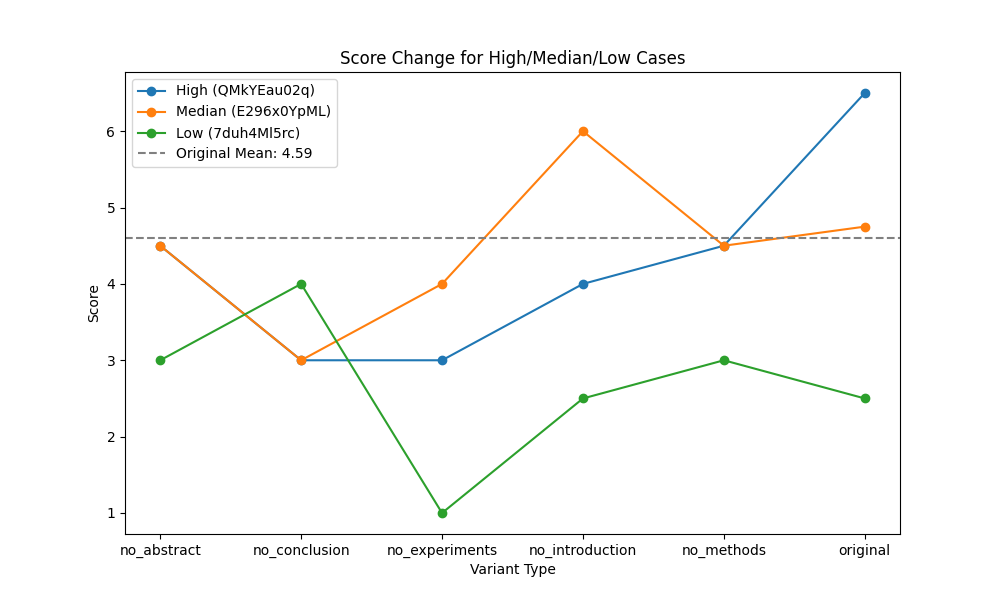
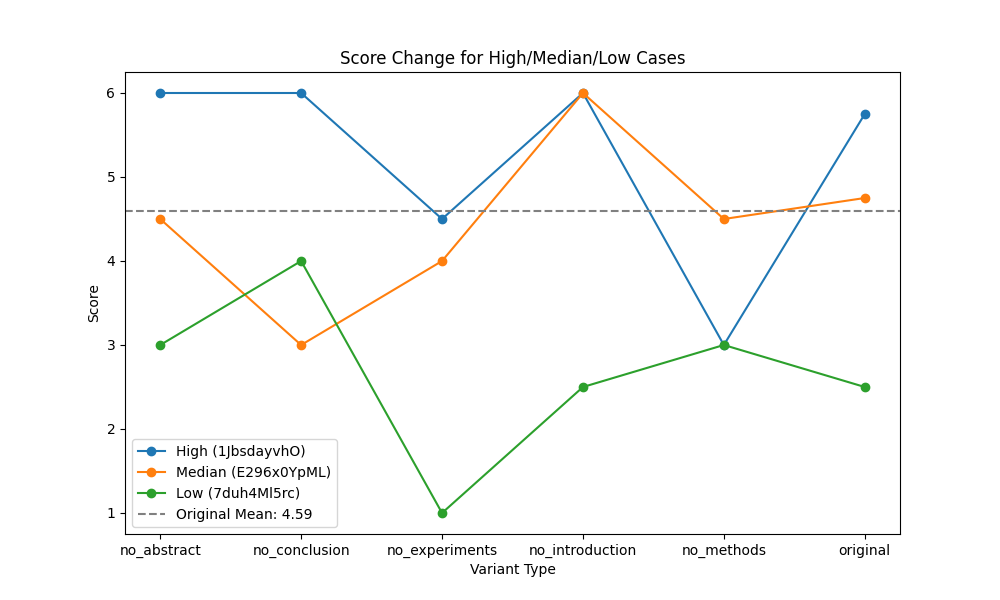
improve high-score case selection in individual case line plot: prioritize papers with abnormal score increases; update README with new and revised output images

diff --git a/scripts/advanced_analysis_and_plot.py b/scripts/advanced_analysis_and_plot.py
@@ -64,15 +64,35 @@ plt.savefig(f'{outdir}/boxplot_variant_type.png')
 plt.close()
 
 # 3. 个案折线图（高/中/低分各一篇）和决策变化合并到一张图
-med = df[df['variant_type']=='original']['rating'].median()
-high = df[df['variant_type']=='original']['rating'].max()
-low = df[df['variant_type']=='original']['rating'].min()
+orig_df = df[df['variant_type'] == 'original']
+med = orig_df['rating'].median()
+low = orig_df['rating'].min()
+
+# High案例优先选“高分且存在异常升分(variant > original)”的第一个；否则回退到最高分论文
+high_case_id = None
+for _, row in orig_df.sort_values('rating', ascending=False).iterrows():
+    base_id = row['base_paper_id']
+    orig_score = row['rating']
+    variants = df[(df['base_paper_id'] == base_id) & (df['variant_type'] != 'original')]
+    if not variants.empty and (variants['rating'] > orig_score).any():
+        high_case_id = base_id
+        break
+
+if high_case_id is None:
+    high = orig_df['rating'].max()
+    high_case = orig_df[orig_df['rating'] == high]
+    if not high_case.empty:
+        high_case_id = high_case.iloc[0]['base_paper_id']
 
 cases = []
-for score in [high, med, low]:
-    case = df[(df['variant_type']=='original') & (df['rating']==score)]
+if high_case_id is not None:
+    cases.append(high_case_id)
+for score in [med, low]:
+    case = orig_df[orig_df['rating'] == score]
     if not case.empty:
-        cases.append(case.iloc[0]['base_paper_id'])
+        cid = case.iloc[0]['base_paper_id']
+        if cid not in cases:
+            cases.append(cid)
 
 plt.figure(figsize=(10,6))
 for case_id, color, label in zip(cases, ['red','green','blue'], ['High','Median','Low']):

diff --git a/analysis_output/evaluted_results/README.md b/analysis_output/evaluted_results/README.md
@@ -2,8 +2,10 @@
 本目录下所有统计图表均基于 merged.jsonl 数据自动生成，涵盖评分、决策、变体影响、极端值、分布等。
 
 ## 图表列表
+- all_normal_papers_pie.png
 - anomaly_count_by_variant.png
 - anomaly_ratio_by_variant.png
+- anomaly_ratio_by_variant_stacked.png
 - bar_decision_consistency_variant_type.png
 - bar_decision_ratio_variant_type.png
 - bar_mean_std_score_diff_variant_type.png
@@ -13,21 +15,30 @@
 - boxplot_variant_type.png
 - case_hml_decision_line.png
 - case_hml_line.png
+- combined_variant_analysis.png
 - decision_bar_no_abstract.png
 - decision_bar_no_conclusion.png
 - decision_bar_no_experiments.png
 - decision_bar_no_introduction.png
 - decision_bar_no_methods.png
+- decision_change_bar_accept_papers.png
+- decision_change_bar_reject_papers.png
 - decision_consistency_pie.png
 - density_score_diff_variant_type.png
 - density_variant_type.png
+- extreme_abnormal_accept_ratio_by_variant.png
 - extreme_score_scatter_no_abstract.png
 - extreme_score_scatter_no_conclusion.png
 - extreme_score_scatter_no_experiments.png
 - extreme_score_scatter_no_introduction.png
 - extreme_score_scatter_no_methods.png
 - line_mean_score_variant_type.png
+- reasonable_score_change_pie.png
 - score_change_heatmap.png
+- score_change_heatmap_accept_papers.png
+- score_change_heatmap_all_papers.png
+- score_change_heatmap_reject_papers.png
+- score_decision_change_stacked.png
 - score_diff_box_no_abstract.png
 - score_diff_box_no_conclusion.png
 - score_diff_box_no_experiments.png
@@ -40,6 +51,12 @@
 - score_hist_no_introduction.png
 - score_hist_no_methods.png
 - score_std_per_paper.png
+- typical_case_variants_line_4JtwtT4nYC.png
+- typical_case_variants_line_GSBHKiw19c.png
+- typical_case_variants_line_JlSyXwCEIQ.png
+- typical_case_variants_line_PCm1oT8pZI.png
+- typical_case_variants_line_combined_4papers.png
+- typical_cases_line.png
 
 ## 图表说明
 每张图下方有详细解读，说明其用途、观察方法和结论建议。
